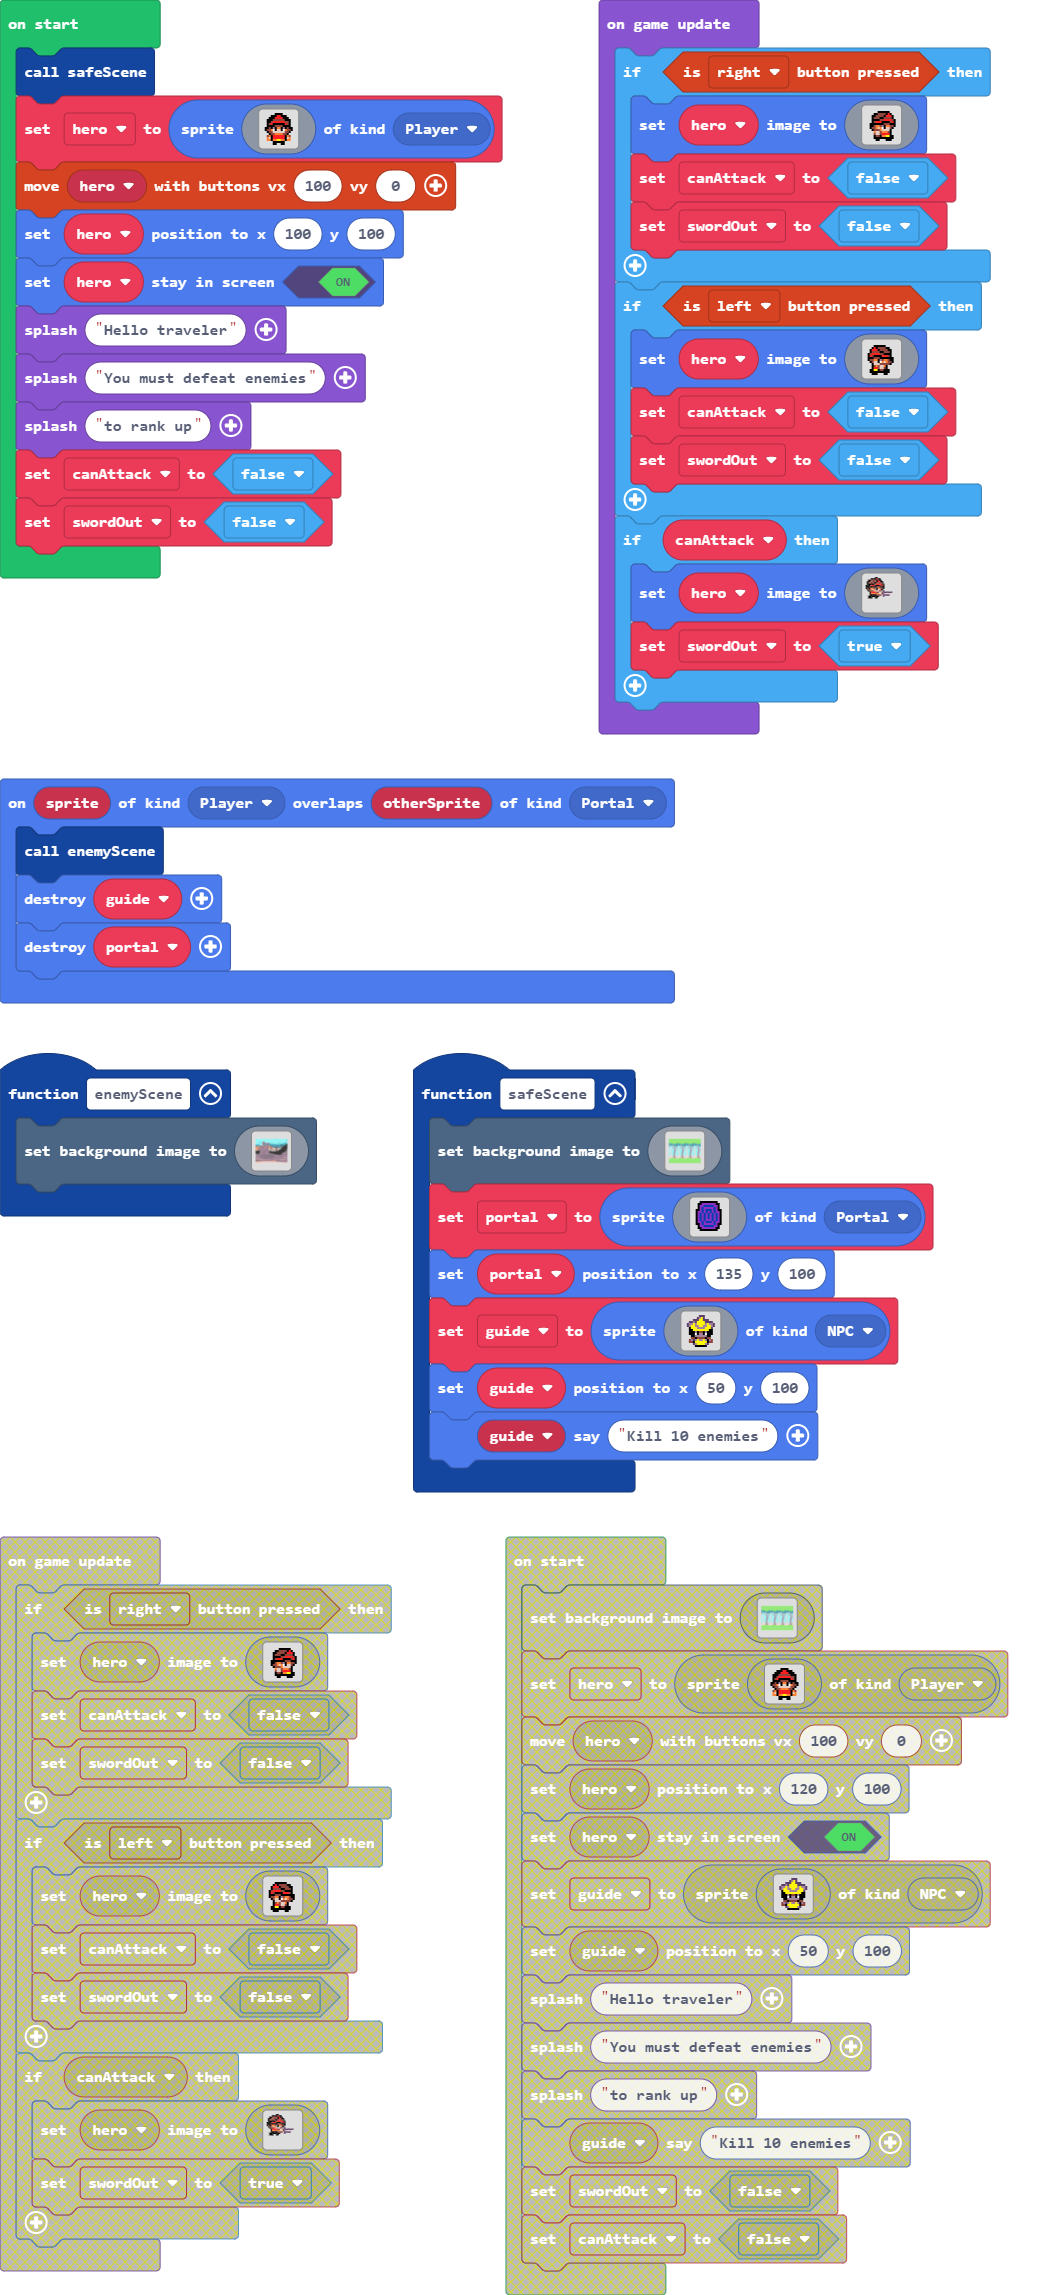
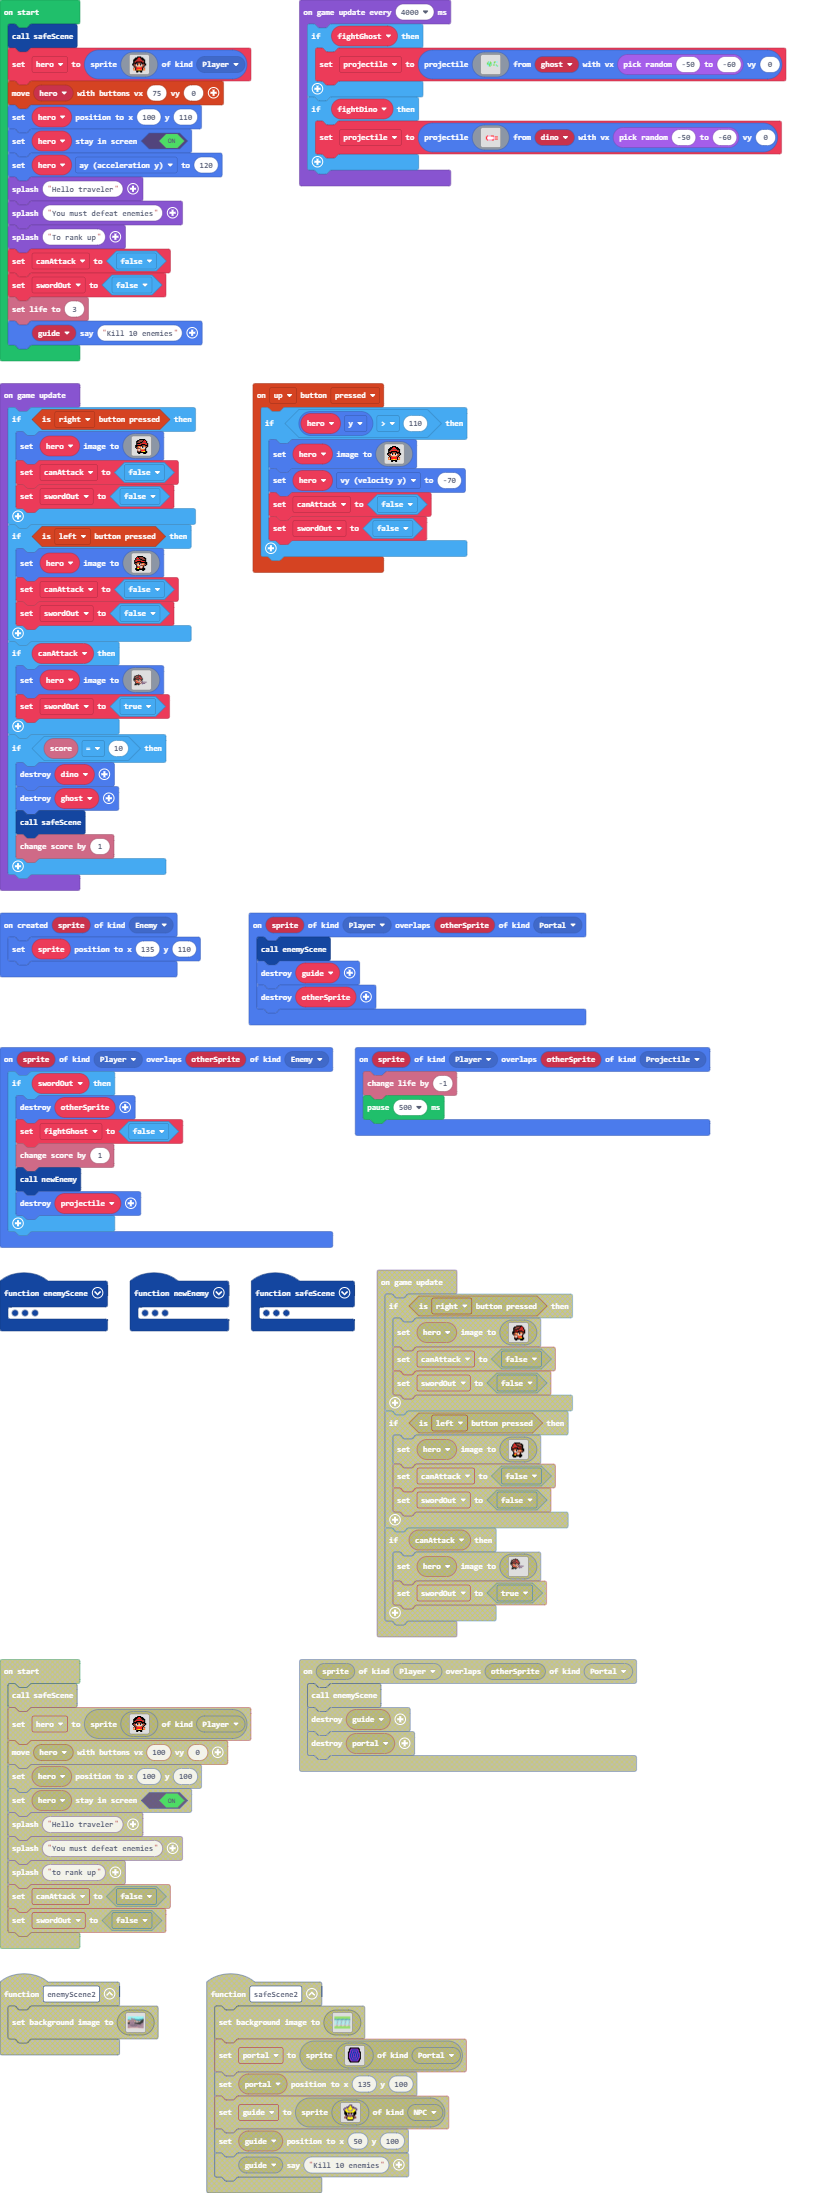
Update main.blocks, main.ts

diff --git a/main.ts b/main.ts
@@ -2,14 +2,108 @@ namespace SpriteKind {
     export const NPC = SpriteKind.create()
     export const Portal = SpriteKind.create()
 }
+sprites.onCreated(SpriteKind.Enemy, function (sprite) {
+    sprite.setPosition(135, 110)
+})
+controller.up.onEvent(ControllerButtonEvent.Pressed, function () {
+    if (hero.y > 110) {
+        hero.setImage(img`
+            . . . . . . f f f f . . . . . . 
+            . . . . f f f 2 2 f f f . . . . 
+            . . . f f f 2 2 2 2 f f f . . . 
+            . . f f f e e e e e e f f f . . 
+            . . f f e 2 2 2 2 2 2 e e f . . 
+            . . f e 2 f f f f f f 2 e f . . 
+            . . f f f f e e e e f f f f . . 
+            . f f e f b f 4 4 f b f e f f . 
+            . f e e 4 1 f d d f 1 4 e e f . 
+            . . f e e d d d d d d e e f . . 
+            . . . f e e 4 4 4 4 e e f . . . 
+            . . e 4 f 2 2 2 2 2 2 f 4 e . . 
+            . . 4 d f 2 2 2 2 2 2 f d 4 . . 
+            . . 4 4 f 4 4 5 5 4 4 f 4 4 . . 
+            . . . . . f f f f f f . . . . . 
+            . . . . . f f . . f f . . . . . 
+            `)
+        hero.vy = -70
+        canAttack = false
+        swordOut = false
+    }
+})
 controller.A.onEvent(ControllerButtonEvent.Pressed, function () {
     canAttack = true
 })
 sprites.onOverlap(SpriteKind.Player, SpriteKind.Portal, function (sprite, otherSprite) {
     enemyScene()
     guide.destroy()
-    portal.destroy()
+    otherSprite.destroy()
 })
+sprites.onOverlap(SpriteKind.Player, SpriteKind.Projectile, function (sprite, otherSprite) {
+    info.changeLifeBy(-1)
+    pause(500)
+})
+function newEnemy () {
+    hero.x = 50
+    if (Math.percentChance(50)) {
+        ghost = sprites.create(img`
+            ........................
+            ........................
+            ........................
+            ........................
+            ..........ffff..........
+            ........ff1111ff........
+            .......fb111111bf.......
+            .......f1111111df.......
+            ......fd1111111ddf......
+            ......fd111111dddf......
+            ......fd111ddddddf......
+            ......fd1dfbddddbf......
+            ......fbddfcdbbbcf......
+            .......f11111bbcf.......
+            .......f1b1fffff........
+            .......fbfc111bf........
+            ........ff1b1bff........
+            .........fbfbfff.f......
+            ..........ffffffff......
+            ............fffff.......
+            ........................
+            ........................
+            ........................
+            ........................
+            `, SpriteKind.Enemy)
+        fightGhost = true
+        fightDino = false
+    } else {
+        dino = sprites.create(img`
+            ........................
+            ........................
+            ..........ccc...........
+            .........cccc...........
+            .....ccccccc..ccc.......
+            ...cc555555cccccc.......
+            ..c5555555555bcc........
+            .c555555555555b..cc.....
+            c555551ff555555bccc.....
+            c55d55ff55555555bc......
+            c5555555555555555b......
+            .cbb31bb5555dd555b.cc...
+            .c5333b555ddddd55dccc...
+            .c533b55ddddddddddb.....
+            .c5555dddbb55bdddddccc..
+            ..ccccbbbb555bdddddccc..
+            ...cdcbc5555bddddddcc...
+            ....ccbc55bc5ddddddbcccc
+            .....cbbcc5555dddddddddc
+            .....ccbbb555ddbddddddc.
+            .....cdcbc55ddbbbdddcc..
+            ...ccdddccddddbcbbcc....
+            ...ccccccd555ddccc......
+            ........cccccccc........
+            `, SpriteKind.Enemy)
+        fightDino = true
+        fightGhost = false
+    }
+}
 function enemyScene () {
     scene.setBackgroundImage(img`
         9999999999999999999999999999999999999999999999999999999999999999999999999999999999999999999999999966666699969999999999999999999999999999999999999999999999999999
@@ -133,6 +227,7 @@ function enemyScene () {
[2 lines of base64/hex data omitted]
         `)
+    newEnemy()
 }
 function safeScene () {
     scene.setBackgroundImage(img`
@@ -275,7 +370,7 @@ function safeScene () {
         . . . f f f f f f f f f . . . . 
         . . . . . . . . . . . . . . . . 
         `, SpriteKind.Portal)
-    portal.setPosition(135, 100)
+    portal.setPosition(135, 110)
     guide = sprites.create(img`
         . . . . . . . c c c . . . . . . 
         . . . . . . c b 5 c . . . . . . 
@@ -294,14 +389,31 @@ function safeScene () {
         . . . . c b 5 5 5 5 b c . . . . 
         . . . . . f f f f f f . . . . . 
         `, SpriteKind.NPC)
-    guide.setPosition(50, 100)
-    guide.sayText("Kill 10 enemies")
+    guide.setPosition(50, 110)
+    fightGhost = false
+    fightDino = false
 }
+sprites.onOverlap(SpriteKind.Player, SpriteKind.Enemy, function (sprite, otherSprite) {
+    if (swordOut) {
+        otherSprite.destroy()
+        fightGhost = false
+        info.changeScoreBy(1)
+        newEnemy()
+        projectile.destroy()
+    }
+})
+let projectile: Sprite = null
 let portal: Sprite = null
+let dino: Sprite = null
+let fightDino = false
+let fightGhost = false
+let ghost: Sprite = null
 let guide: Sprite = null
+let swordOut = false
 let canAttack = false
+let hero: Sprite = null
 safeScene()
-let hero = sprites.create(img`
+hero = sprites.create(img`
     . . . . . . f f f f . . . . . . 
     . . . . f f f 2 2 f f f . . . . 
     . . . f f f 2 2 2 2 f f f . . . 
@@ -319,14 +431,17 @@ let hero = sprites.create(img`
     . . . . . f f f f f f . . . . . 
     . . . . . f f . . f f . . . . . 
     `, SpriteKind.Player)
-controller.moveSprite(hero, 100, 0)
-hero.setPosition(100, 100)
+controller.moveSprite(hero, 75, 0)
+hero.setPosition(100, 110)
 hero.setStayInScreen(true)
+hero.ay = 120
 game.splash("Hello traveler")
 game.splash("You must defeat enemies")
-game.splash("to rank up")
+game.splash("To rank up")
 canAttack = false
-let swordOut = false
+swordOut = false
+info.setLife(3)
+guide.sayText("Kill 10 enemies")
 game.onUpdate(function () {
     if (controller.right.isPressed()) {
         hero.setImage(img`
@@ -390,15 +505,55 @@ game.onUpdate(function () {
             ...fffffeeee.ccccc......
             ..ffffffff...c..........
             ..fff..ff...............
-            ........................
-            ........................
-            ........................
-            ........................
-            ........................
-            ........................
-            ........................
-            ........................
             `)
         swordOut = true
+    }
+    if (info.score() == 10) {
+        dino.destroy()
+        ghost.destroy()
+        safeScene()
+        info.changeScoreBy(1)
+    }
+})
+game.onUpdateInterval(4000, function () {
+    if (fightGhost) {
+        projectile = sprites.createProjectileFromSprite(img`
+            . . . . . . . . . . . . . . . . 
+            . . . . . . . . . . . . . . . . 
+            . . . . . . . . . . . . . . . . 
+            . . . . . . . . . . . . . . . . 
+            . . . . . . . . . . . . . . . . 
+            . . . . . 7 9 7 . . . 7 7 9 9 . 
+            . . . . 7 9 9 7 7 . 9 7 . . . . 
+            . . . . 7 7 7 7 9 . . . . . . . 
+            . . . . 9 9 7 9 7 . 7 7 9 7 . . 
+            . . . . . 9 7 7 . . . . . 9 7 9 
+            . . . . . . . . . . . . . . . . 
+            . . . . . . . . . . . . . . . . 
+            . . . . . . . . . . . . . . . . 
+            . . . . . . . . . . . . . . . . 
+            . . . . . . . . . . . . . . . . 
+            . . . . . . . . . . . . . . . . 
+            `, ghost, randint(-50, -60), 0)
+    }
+    if (fightDino) {
+        projectile = sprites.createProjectileFromSprite(img`
+            . . . . . . . . . . . . . . . . 
+            . . . . . . . . . . . . . . . . 
+            . . . . . . . . . . . . . . . . 
+            . . . . . . . . . . . . . . . . 
+            . . . . . . . . . . . . . . . . 
+            . . . . . . . . . . . . . . . . 
+            . . . . 2 3 3 3 2 2 2 . . . . . 
+            . . . 2 3 1 1 1 1 1 3 3 2 2 2 . 
+            . . . 2 1 1 1 1 1 1 1 1 1 1 1 . 
+            . . . 2 3 1 1 1 1 1 3 3 2 2 2 . 
+            . . . . 2 3 3 3 3 2 2 . . . . . 
+            . . . . . . . . . . . . . . . . 
+            . . . . . . . . . . . . . . . . 
+            . . . . . . . . . . . . . . . . 
+            . . . . . . . . . . . . . . . . 
+            . . . . . . . . . . . . . . . . 
+            `, dino, randint(-50, -60), 0)
     }
 })
